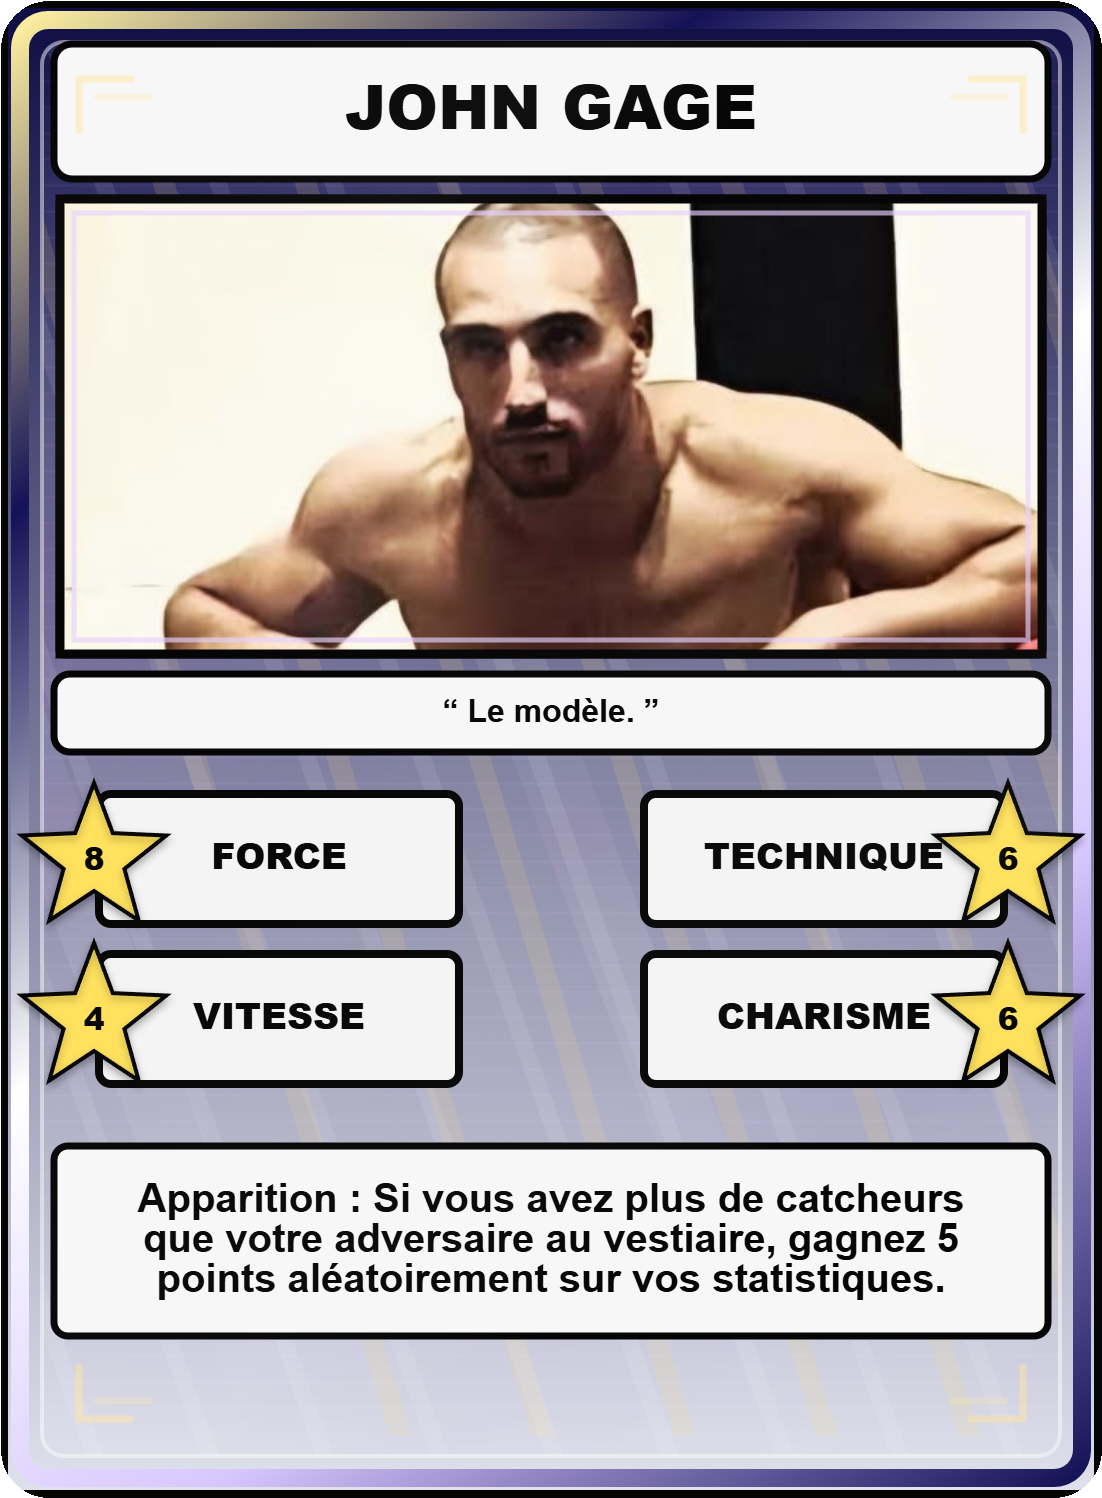
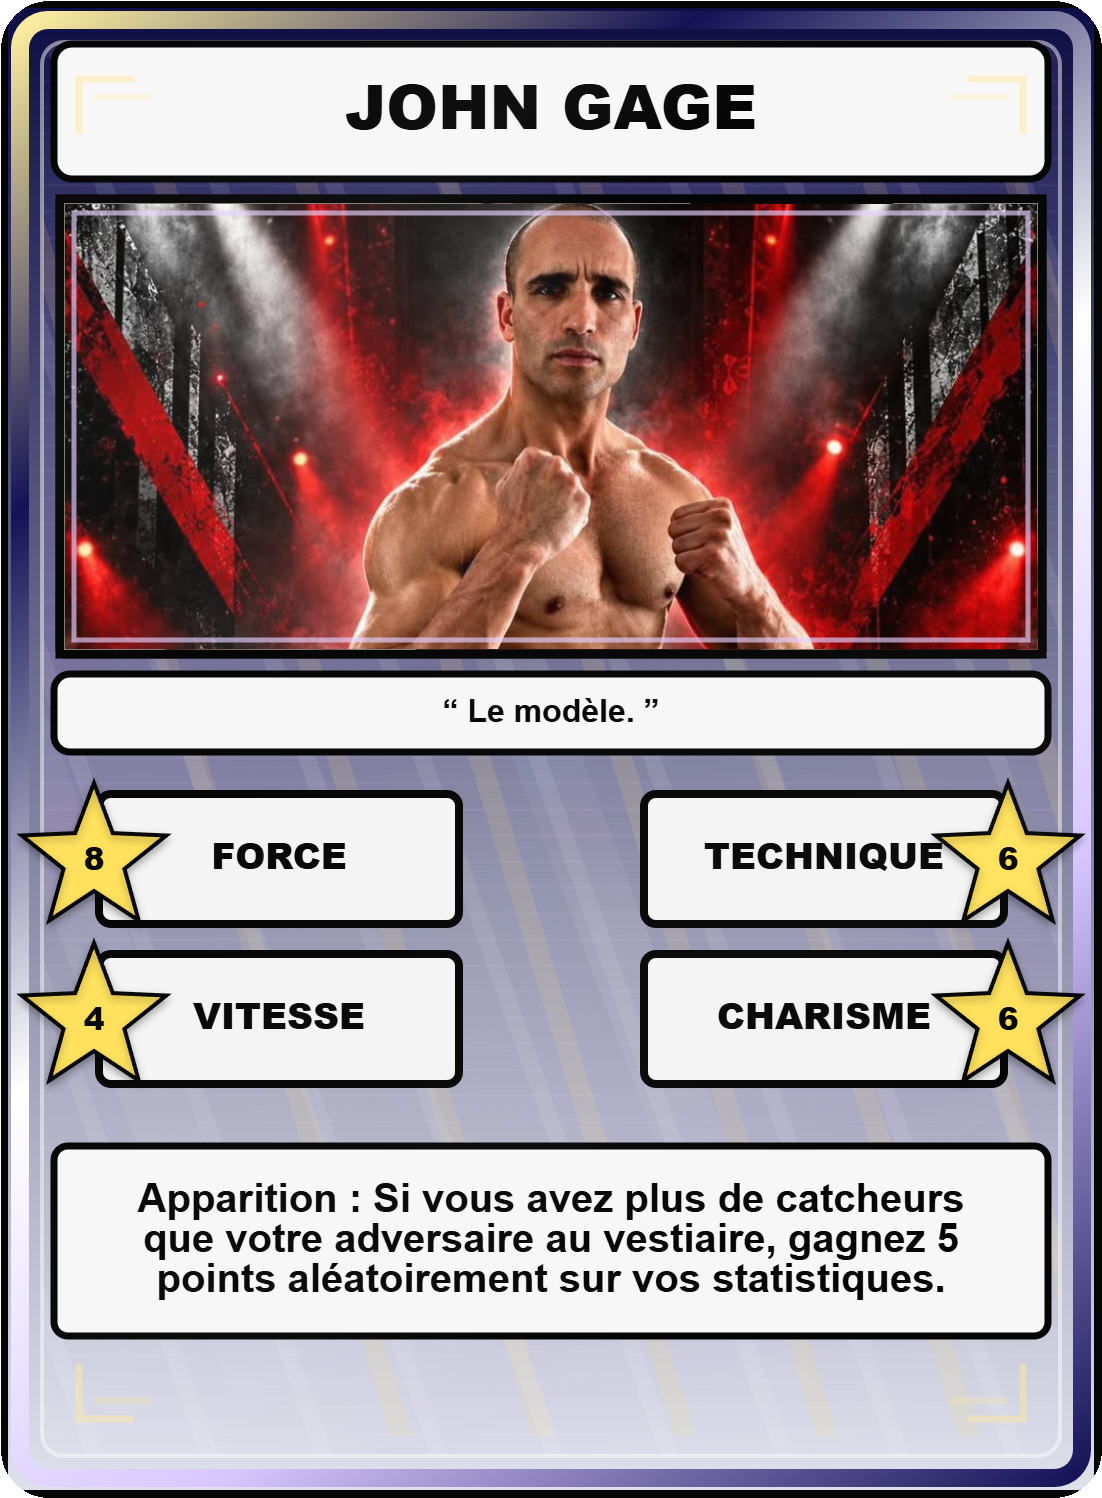
Replace John Gage card photo with wrestler-provided image (0.2.45)

Changed region(s): [[0.0617, 0.1228, 0.9564, 0.4606]]

diff --git a/js/game.js b/js/game.js
@@ -9288,6 +9288,7 @@ const REFRESHED_RENDER_ART=new Set([
 
 function renderArtSrc(path){
   const src=String(path||"");
+  if(src==="assets/card_renders/rare_catcheurs_john_gage.png")return `${src}?art=john-gage-photo-20261116`;
   if(src==="assets/card_renders/rare_objets_masque_halloween.png")return `${src}?art=mask-final-format-1`;
   return REFRESHED_RENDER_ART.has(src) ? `${src}?art=0212-refresh-1` : src;
 }
